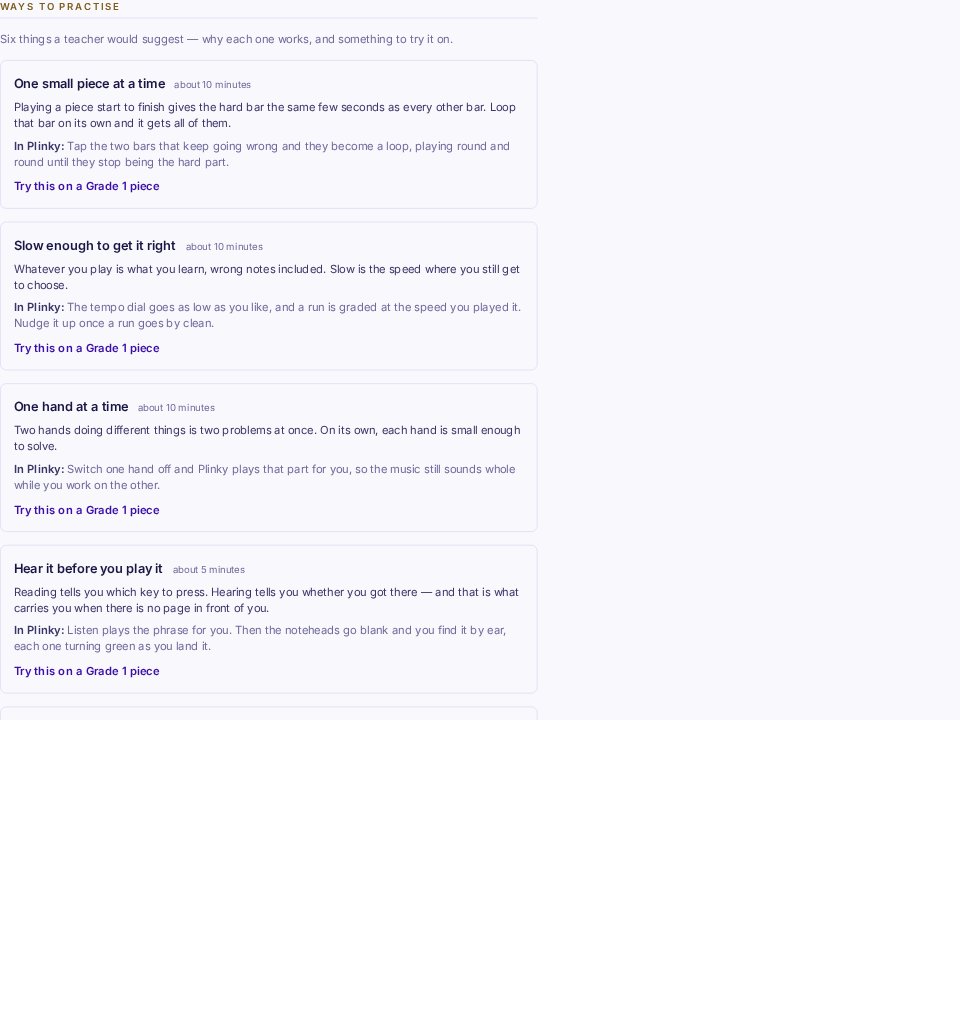
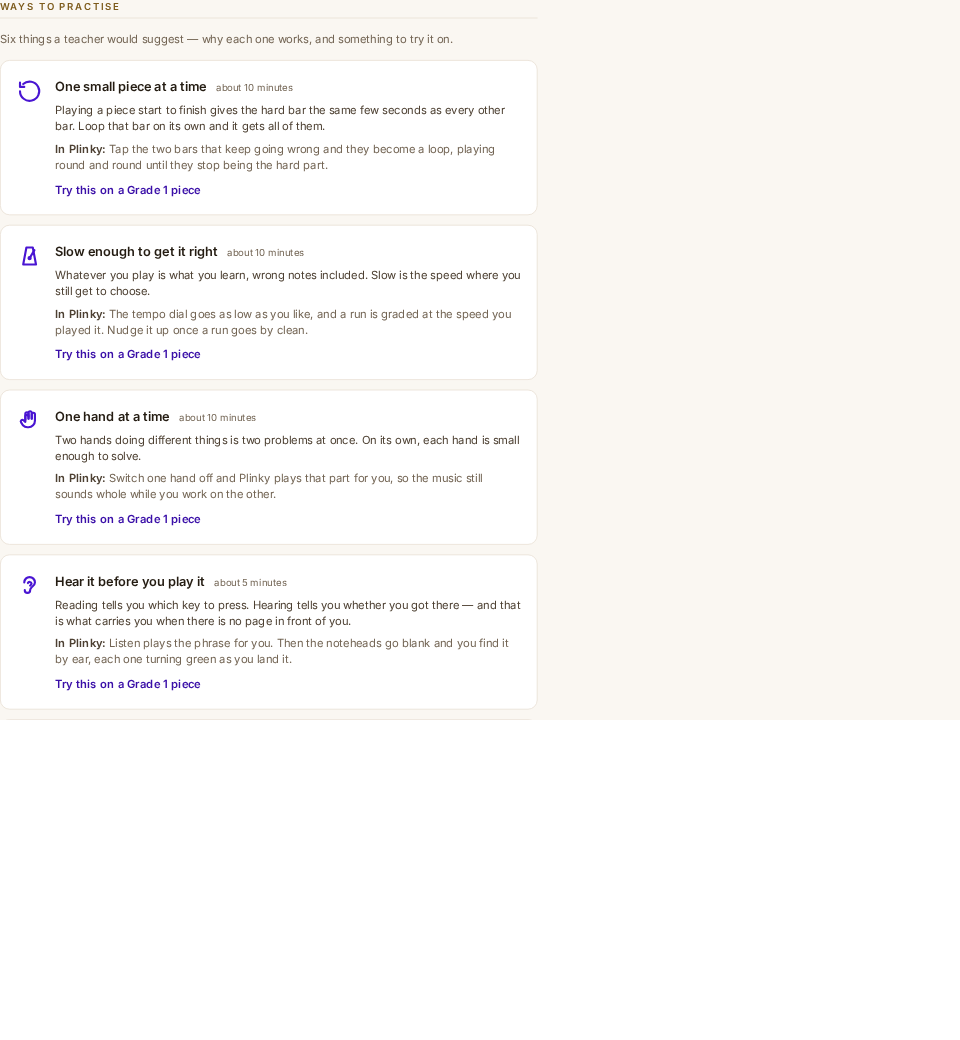
feat(methods): the practice cards are the Learn hub's cards
The six ways to practise sat in quiet panels that blended into the page, while the
Learn hub's entries are bordered cards that lift off it. Six of anything in a
column needs to read as six things.

Rather than copying the styling across, the frame is now one component both use.
The difference between them is real and small: a hub entry IS a link, because the
whole card goes somewhere, and a practice card must NOT be, because it carries its
own action button and a link around a link is not a thing. So HubCard owns the
frame, the icon and the note, and the contents are the caller's.

Each method gains an icon — the nearest thing the set already has to what the
method does, a loop for looping, a metronome for slowing down, a hand for one hand
— and a note that sounds as a mouse crosses it. The six climb a scale, so running
an eye down the page plays a phrase. The notes live on the methods in core rather
than in the component because they are a tune, and a tune belongs in one list
where somebody can see its shape.

Mouse only, as on the hub: on a touch screen pointerenter arrives with the tap
that is already opening something, and a note under a finger is a surprise rather
than a flourish.

Changed region(s): [[0.0, 0.0305, 0.5312, 0.3658], [0.0, 0.5487, 0.5312, 0.6706], [0.0, 0.3963, 0.5312, 0.5182]]

diff --git a/app/components/features/practiceMethods.tsx b/app/components/features/practiceMethods.tsx
@@ -7,7 +7,9 @@ import { playOptionsQuery } from "../../../core/playOptions";
 import { type MethodId, METHODS, type PracticeMethod } from "../../../core/practiceMethods";
 import { useMusicItems } from "../../hooks/useMusicItems";
 import { useServices } from "../../contexts/services";
-import { Card } from "../ui/card";
+import { HubCard } from "../ui/hubCard";
+import { CalendarIcon, EarIcon, HandIcon, ListIcon, MetronomeIcon, RotateIcon } from "../ui/icons";
+import { useSynth } from "../../hooks/useSynth";
 import { localizedHref } from "../ui/href";
 import { sectionHeadingClasses } from "../ui/classes";
 import { m } from "../../paraglide/messages.js";
@@ -37,6 +39,18 @@ const WHY: Record<MethodId, () => string> = {
     hearingFirst: () => m.method_hearing_first_why(),
     interleaving: () => m.method_interleaving_why(),
     spacing: () => m.method_spacing_why(),
+};
+
+// One icon per method, so six of these in a column read as six things at a glance rather
+// than as six paragraphs. Each is the nearest thing the icon set already has to what the
+// method DOES: a loop for looping, a metronome for slowing down, a hand for one hand.
+const ICONS: Record<MethodId, (props: { className?: string }) => React.JSX.Element> = {
+    chunking: RotateIcon,
+    slow: MetronomeIcon,
+    handsApart: HandIcon,
+    hearingFirst: EarIcon,
+    interleaving: ListIcon,
+    spacing: CalendarIcon,
 };
 
 // One method's own button. It opens a piece at the player's grade with the method already
@@ -88,35 +102,45 @@ export function PracticeMethods() {
     // Read every render rather than memoised — a grade reached while the page is open
     // should change what the buttons offer.
     const grade = Math.max(1, services.milestones.reachedGrade());
+    // Each card sounds its note as a mouse crosses it, so running an eye down the six plays
+    // a scale. The Learn hub's own idea, reached through the card they now share.
+    const synth = useSynth();
+    const sound = (note: number) =>
+        synth.playNote(note, { velocity: 55, duration: 0.4, decorative: true });
     return (
         <section className="space-y-4">
             <h2 className={sectionHeadingClasses}>{m.methods_title()}</h2>
             <p className="text-sm text-muted">{m.methods_intro()}</p>
 
-            <ul className="space-y-4">
+            <ul className="space-y-3">
                 {METHODS.map((method) => (
                     <li key={method.id}>
-                        <Card className="space-y-2">
-                            <div className="flex flex-wrap items-baseline gap-x-3">
-                                <h3 className="text-base font-semibold text-ink">
-                                    {NAME[method.id]()}
-                                </h3>
-                                <span className="text-xs text-muted">
-                                    {m.methods_dose({ count: method.minutes })}
-                                </span>
+                        {/* The same card the Learn hub is built from — bordered, raised and
+                            lifting on hover — but not a link: this one carries its own
+                            action button, and a link around a link is not a thing. */}
+                        <HubCard Icon={ICONS[method.id]} note={method.note} onEnter={sound}>
+                            <div className="min-w-0 space-y-2">
+                                <div className="flex flex-wrap items-baseline gap-x-3">
+                                    <h3 className="text-base font-semibold text-ink">
+                                        {NAME[method.id]()}
+                                    </h3>
+                                    <span className="text-xs text-muted">
+                                        {m.methods_dose({ count: method.minutes })}
+                                    </span>
+                                </div>
+                                {/* The reason first: it is what makes the instruction worth
+                                    following, and it is the half a beginner has never been
+                                    told. */}
+                                <p className="text-sm text-body">{WHY[method.id]()}</p>
+                                <p className="text-sm text-muted">
+                                    <span className="font-semibold text-body">
+                                        {m.methods_in_plinky()}:
+                                    </span>{" "}
+                                    {HOW[method.id]()}
+                                </p>
+                                <MethodAction method={method} grade={grade} />
                             </div>
-                            {/* The reason first: it is what makes the instruction worth
-                                following, and it is the half a beginner has never been
-                                told. */}
-                            <p className="text-sm text-body">{WHY[method.id]()}</p>
-                            <p className="text-sm text-muted">
-                                <span className="font-semibold text-body">
-                                    {m.methods_in_plinky()}:
-                                </span>{" "}
-                                {HOW[method.id]()}
-                            </p>
-                            <MethodAction method={method} grade={grade} />
-                        </Card>
+                        </HubCard>
                     </li>
                 ))}
             </ul>

diff --git a/core/practiceMethods.ts b/core/practiceMethods.ts
@@ -25,6 +25,11 @@ export type MethodId =
 
 export type PracticeMethod = {
     id: MethodId;
+    // The note this method sounds when a mouse crosses it. Six of them climb a scale, so
+    // running an eye down the page plays a phrase — the same idea the Learn hub uses, and
+    // the reason to keep the numbers here rather than in the component: they are a tune,
+    // and a tune belongs in one list where somebody can see its shape.
+    note: number;
     // Roughly how long one go at it takes, in minutes — the "dose" that turns a
     // method from an idea into something that fits in tonight's practice.
     minutes: number;
@@ -41,18 +46,18 @@ export const METHODS: PracticeMethod[] = [
     // Bars 1 to 4 rather than "the hard part": nothing here knows which bars are hard, and
     // opening the loop over the first phrase at least starts you inside the control, with
     // the bars adjustable from the bar itself.
-    { id: "chunking", minutes: 10, opens: { loop: { from: 1, to: 4 } } },
+    { id: "chunking", note: 60, minutes: 10, opens: { loop: { from: 1, to: 4 } } },
     // Sixty per cent: slow enough that the notes have time to be chosen, fast enough that
     // the piece is still a piece.
-    { id: "slow", minutes: 10, opens: { speed: 0.6 } },
-    { id: "handsApart", minutes: 10, opens: { hands: "left" } },
+    { id: "slow", note: 62, minutes: 10, opens: { speed: 0.6 } },
+    { id: "handsApart", note: 64, minutes: 10, opens: { hands: "left" } },
     // Its own words are "listen to the phrase, then turn the noteheads blank and find it
     // by ear" — which is the hidden-notes switch on a piece, not the interval drill. It
     // opens the piece plain; the switch is on the surface it opens.
-    { id: "hearingFirst", minutes: 5, opens: {} },
+    { id: "hearingFirst", note: 65, minutes: 5, opens: {} },
     // These two are not about one piece. Mixing them up IS the review session, and coming
     // back later is the queue deciding when — so both point at the page that does it
     // rather than at a piece chosen at random, which would be the opposite of the method.
-    { id: "interleaving", minutes: 15, route: "/review" },
-    { id: "spacing", minutes: 10, route: "/review" },
+    { id: "interleaving", note: 67, minutes: 15, route: "/review" },
+    { id: "spacing", note: 69, minutes: 10, route: "/review" },
 ];

diff --git a/app/components/ui/hubCard.tsx b/app/components/ui/hubCard.tsx
@@ -1,0 +1,52 @@
+// SPDX-FileCopyrightText: The Plinky Authors
+// SPDX-License-Identifier: AGPL-3.0-or-later
+
+import type { ReactNode } from "react";
+
+// The card a hub is made of: an icon, whatever the caller puts beside it, and a lift on
+// hover — bordered and raised, so a column of them reads as several things rather than as
+// one long page.
+//
+// Two places want it and they want different insides. The hubs (Learn, Music) put a whole
+// destination in one, so the card IS a link. Ways to practise puts a heading, two
+// paragraphs and its own action button in one, so the card must not be a link — a link
+// around a link is not a thing. That is the only difference, which is why the frame is
+// here and the contents are the caller's.
+//
+// A mouse crossing it sounds a note where one is given. Mouse only: on a touch screen
+// pointerenter arrives with the tap that is already opening something, and a note firing
+// under a finger is a surprise rather than a flourish.
+export function HubCard({
+    Icon,
+    note,
+    onEnter,
+    as: As = "div",
+    className = "",
+    children,
+    ...rest
+}: {
+    Icon: (props: { className?: string }) => ReactNode;
+    note?: number;
+    onEnter?: (note: number) => void;
+    // The element to draw. A link when the whole card goes somewhere, otherwise a div.
+    as?: React.ElementType;
+    className?: string;
+    children: ReactNode;
+    // Whatever the chosen element needs — `to` for a link, and nothing for a div.
+    [key: string]: unknown;
+}) {
+    return (
+        <As
+            {...rest}
+            onPointerEnter={(event: React.PointerEvent) => {
+                if (event.pointerType === "mouse" && note !== undefined) {
+                    onEnter?.(note);
+                }
+            }}
+            className={`group flex items-start gap-4 rounded-xl border border-line bg-raised p-5 transition hover:-translate-y-0.5 hover:border-accent-line-strong hover:shadow-md ${className}`}
+        >
+            <Icon className="mt-0.5 h-8 w-8 shrink-0 text-accent group-hover:text-accent-strong" />
+            {children}
+        </As>
+    );
+}

diff --git a/app/components/ui/hubList.tsx b/app/components/ui/hubList.tsx
@@ -2,6 +2,7 @@
 // SPDX-License-Identifier: AGPL-3.0-or-later
 
 import type { ReactNode } from "react";
+import { HubCard } from "./hubCard";
 import { LocalizedLink as Link } from "./localizedLink";
 
 export type HubEntry = {
@@ -30,16 +31,13 @@ export function HubList({
         <ul className="space-y-3">
             {entries.map((entry) => (
                 <li key={entry.to}>
-                    <Link
+                    <HubCard
+                        as={Link}
                         to={entry.to}
-                        onPointerEnter={(event) => {
-                            if (event.pointerType === "mouse" && entry.note !== undefined) {
-                                onEnter?.(entry.note);
-                            }
-                        }}
-                        className="group flex items-start gap-4 rounded-xl border border-line bg-raised p-5 transition hover:-translate-y-0.5 hover:border-accent-line-strong hover:shadow-md"
+                        Icon={entry.Icon}
+                        note={entry.note}
+                        onEnter={onEnter}
                     >
-                        <entry.Icon className="mt-0.5 h-8 w-8 shrink-0 text-accent group-hover:text-accent-strong" />
                         <span className="space-y-1">
                             <span className="block text-lg font-medium text-ink group-hover:text-accent-strong">
                                 {entry.label} →
@@ -48,7 +46,7 @@ export function HubList({
                                 {entry.blurb}
                             </span>
                         </span>
-                    </Link>
+                    </HubCard>
                 </li>
             ))}
         </ul>
